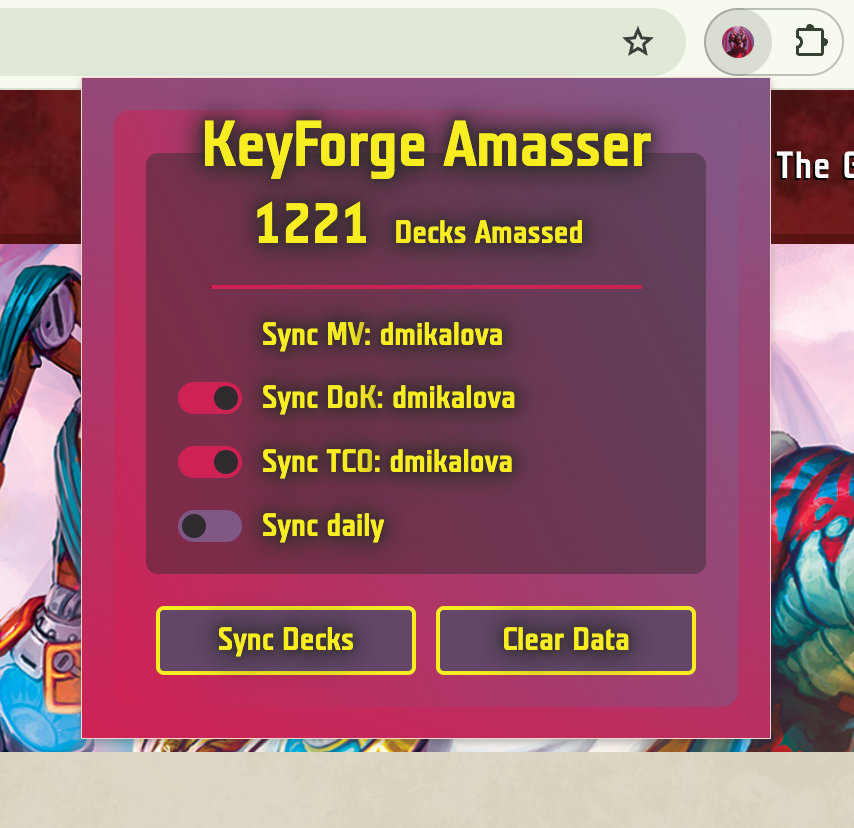
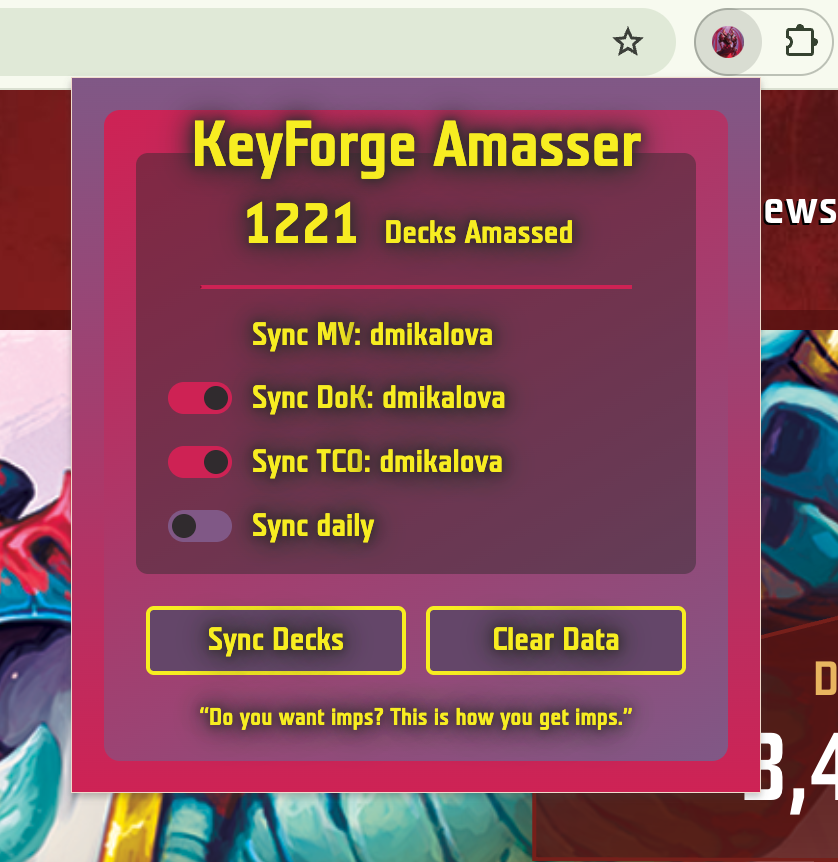
feat: added quotes

diff --git a/amasser/src/quotes.ts b/amasser/src/quotes.ts
@@ -1,0 +1,22 @@
+export const quotes: string[] = [
+  '“Ingram, put that down! We\'re surrounded!” -Lieutenant Khrkhar',
+  '“We can learn so much from our animal friends.”',
+  '“I told you to stay off the furniture!”',
+  '“As far as oblivions go, it\'s in my bottom three.” -Dr. Escotera',
+  '“If you had seen what I have seen, you\'d be mad too.” -the Mad Prophet Gizelhart',
+  '“I\'ve explored thousands of possible futures. Somehow they all end up here.” -Qincan, Alliance outcast',
+  '“You! Æmber lover. You\'re next.”',
+  '“Do you want imps? This is how you get imps.”',
+  '“Was that you, or the cave?” -Captain Val Jericho',
+  '“History repeats itself.” -Human Proverb',
+  '“Always clear your search history.” -Dr. Escotera',
+  '“Enjoy your survival bonus of an extra quarter portion.”',
+
+  'Abolish ICE, defund police',
+  'Abortion access is a community responsibility',
+  'ACAB',
+  'Black lives matter',
+  'Chinga la migra',
+  'Hot rat summer',
+  'Trans rights are human rights',
+]

diff --git a/amasser/src/popup.ts b/amasser/src/popup.ts
@@ -2,9 +2,13 @@ import { getDokToken, getDokUser } from './bg-dok.js'
 import { getMvAuth } from './bg-mv.js'
 import { getTcoRefreshToken, getTcoUser } from './bg-tco.js'
 import { getLocalDecks } from './lib.js'
+import { quotes } from './quotes.js'
 
 // Popup script for KeyForge Amasser extension
 document.addEventListener('DOMContentLoaded', async () => {
+  // Load quotes
+  loadQuotes()
+
   // Set up event listeners
   setupEventListeners()
 
@@ -381,4 +385,13 @@ const loadUsers = async settings => {
   await Promise.all(userPromises)
   console.log('Logged in!')
   resetButtons()
+}
+
+const loadQuotes = () => {
+  console.log('Loading quote')
+  const quoteElem = document.getElementById('quote')
+  if (quoteElem) {
+    quoteElem.textContent = quotes[Math.floor(Math.random() * quotes.length)]
+    console.log('Quote should be loaded')
+  }
 }

diff --git a/amasser/src/popup.css b/amasser/src/popup.css
@@ -41,7 +41,7 @@ body {
 main {
   align-items: center;
   background: linear-gradient(
-    calc(var(--gradient-angle-main, 0deg) - var(--count, 0deg)),
+    calc(var(--gradient-angle-main, 150deg) - var(--count, 0deg)),
     var(--color-pink) 0%,
     var(--color-purple) 100%
   );
@@ -189,4 +189,10 @@ hr {
   background: var(--color-black);
   border: 2px solid var(--color-black);
   cursor: not-allowed;
+}
+
+.quotes {
+  margin-top: 16px;
+  margin-bottom: 0px;
+  font-size: 12px;
 }

diff --git a/amasser/src/popup.html b/amasser/src/popup.html
@@ -65,6 +65,10 @@
         <button id="sync-decks" class="button" disabled>Logging in...</button>
         <button id="clear-data" class="button">Clear Data</button>
       </section>
+
+      <section class="quotes">
+        <label class="quote" id="quote">...</label>
+      </section>
     </main>
 
     <script src="../dist/popup.js" type="module"></script>

diff --git a/amasser/README.md b/amasser/README.md
@@ -2,15 +2,16 @@
 
 A browser extension for Chrome and Firefox that collects KeyForge decks from the Master Vault and syncs them to Decks of KeyForge or The Crucible Online.
 
+<!-- markdownlint-disable-next-line MD033 -->
+<img src="assets/screenshot.png" alt="KeyForge Amasser Extension Screenshot" width="400">
+
 ## Features
 
-- The deck list is stored by the extension - after the initial sync only new decks are synced.
-- Syncing happens in the background - once started the extension popup can be closed without interrupting the sync.
+- The deck list is stored by the extension - after the initial sync only newly scanned decks are synced.
+- Syncing runs in the background - once started the extension popup can be closed without interrupting the sync.
 - Syncing can automatically run daily as long as you are logged into MV, DoK, and TCO and the browser is left open.
+- Includes fun, inspiring, and thought-provoking quotes to ponder while waiting for the sync to complete.
 - It is bright enoough to be seen from space.
-
-<!-- markdownlint-disable-next-line MD033 -->
-<img src="assets/screenshot.png" alt="KeyForge Amasser Extension Screenshot" width="300">
 
 ## Installation
 
